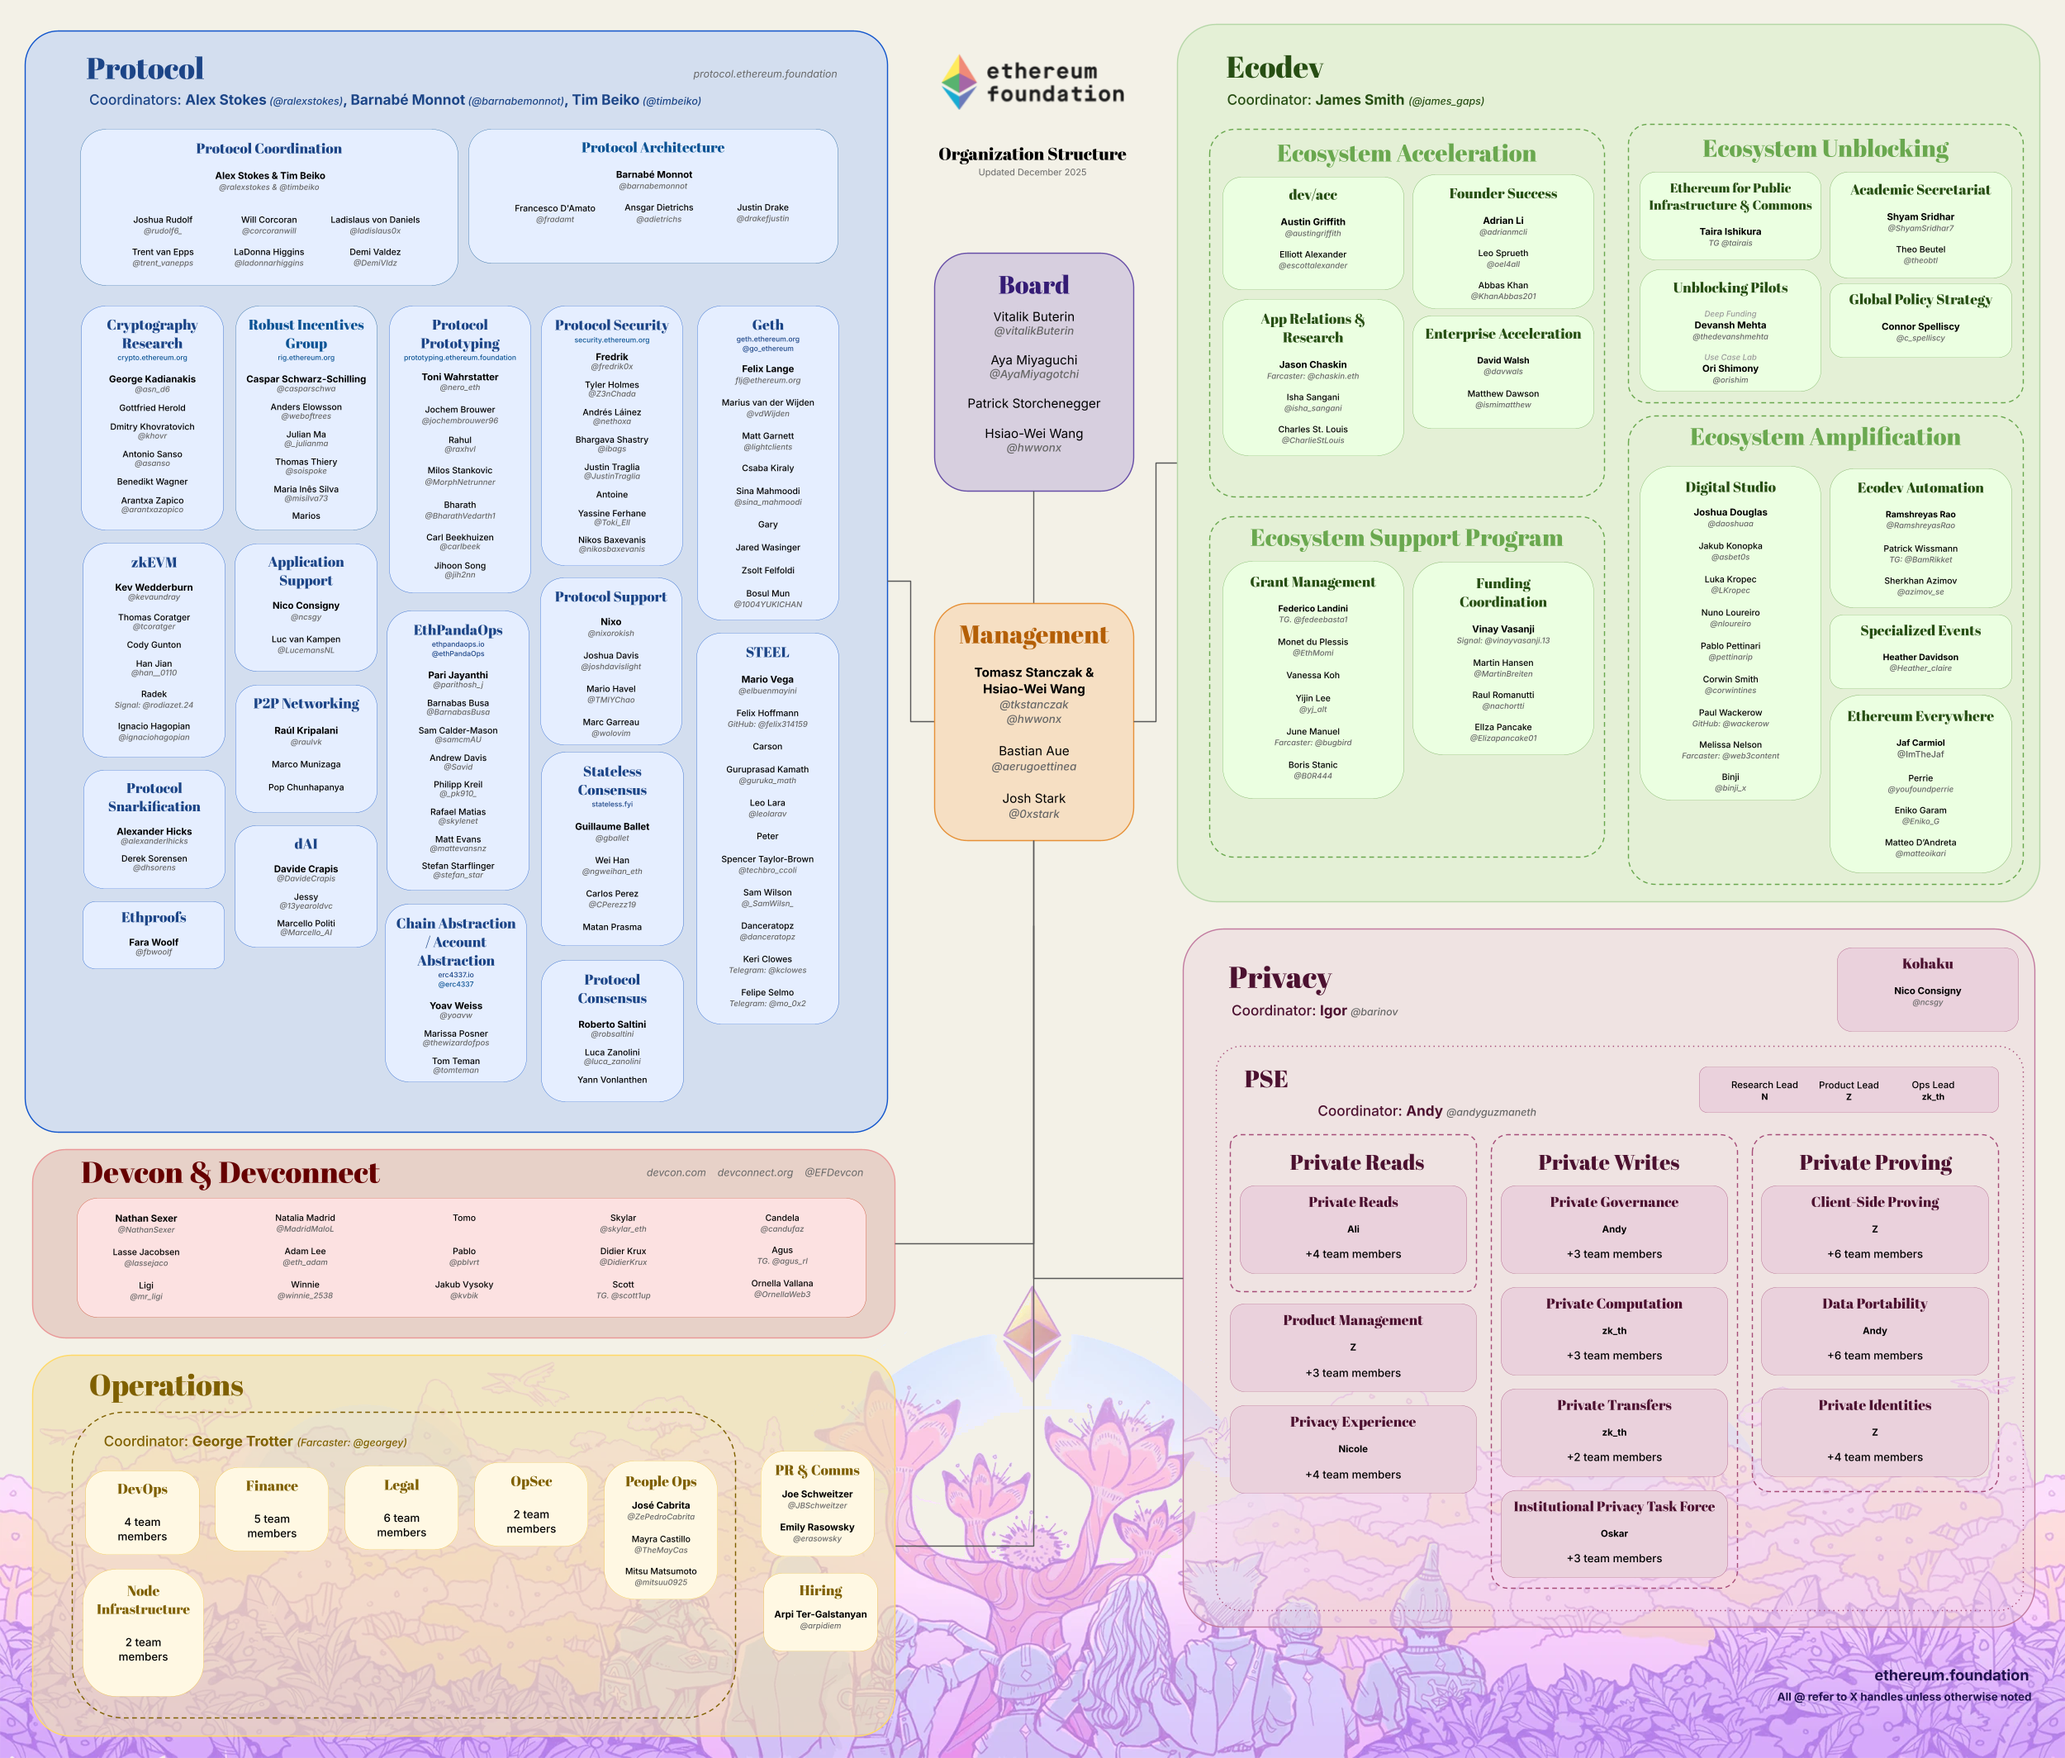
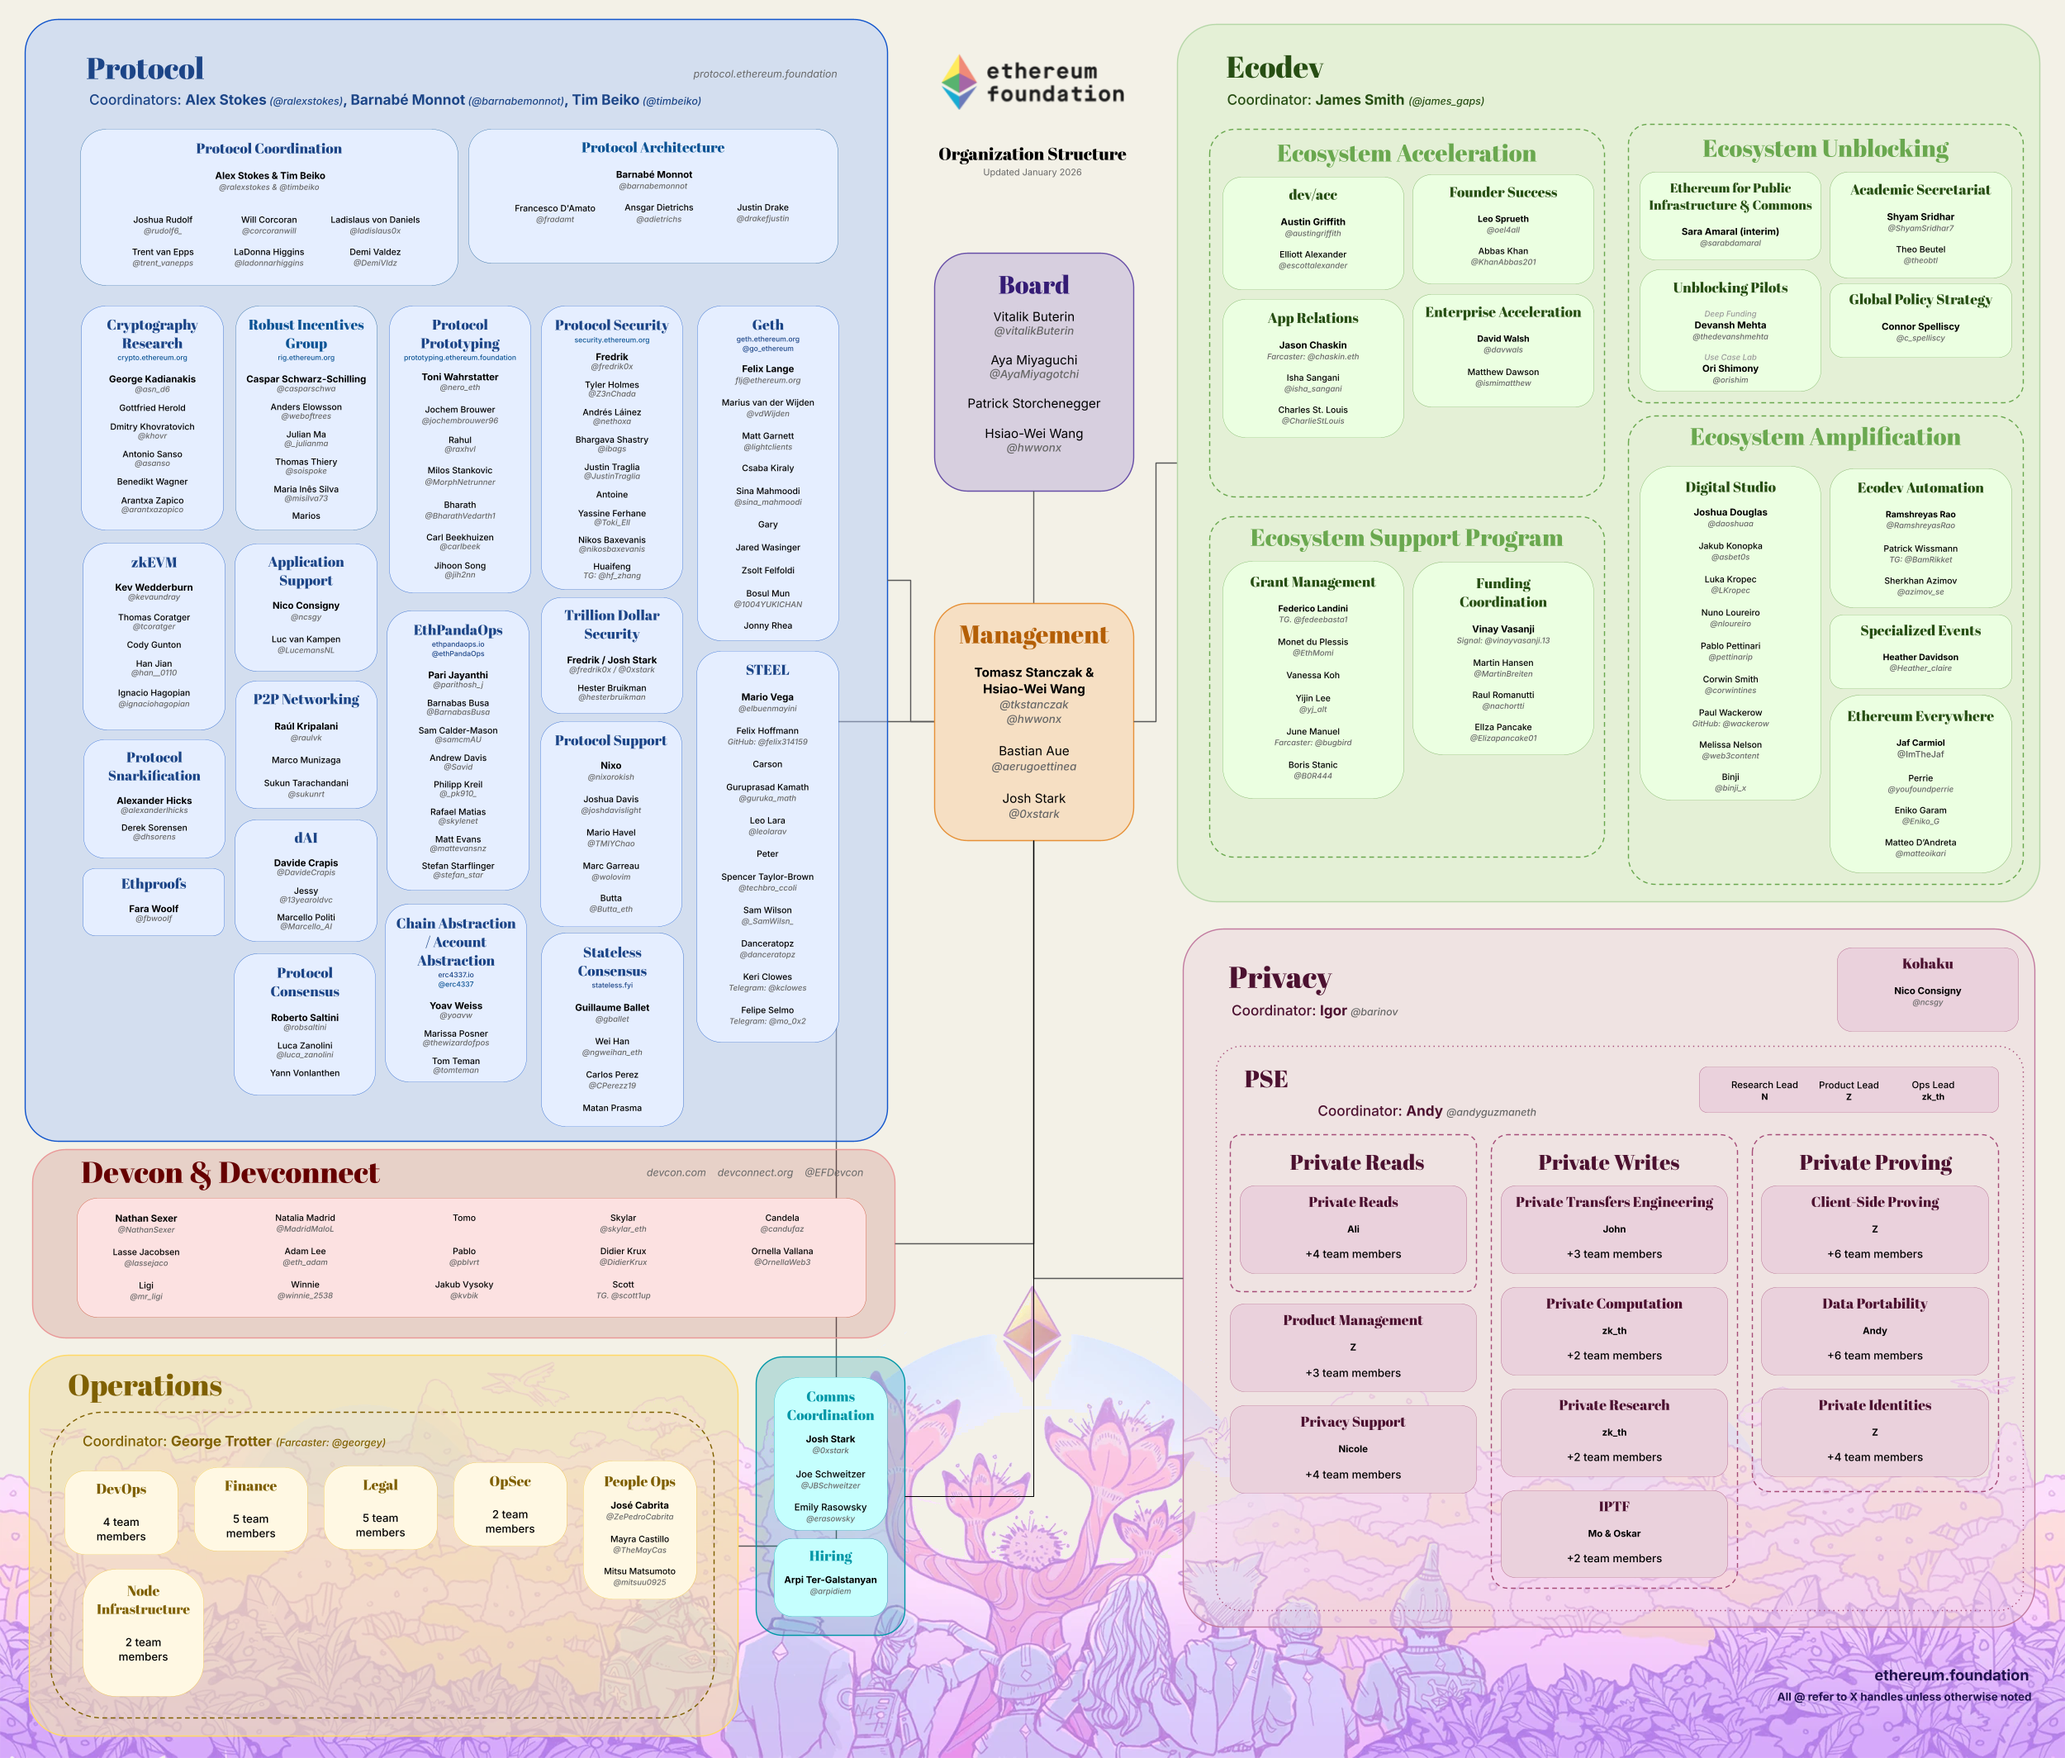
Update org chart to January 2026 version
- Replace org chart image with updated January 2026 version
- Adjust image height in people page (1785 → 2128) to match new dimensions

diff --git a/src/app/people/page.tsx b/src/app/people/page.tsx
@@ -20,7 +20,7 @@ const EthereumFoundation = (props: any) => {
           <Image
             src="/assets/ef-org-chart.png"
             width={2500}
-            height={1785}
+            height={2128}
             alt="Organizational Chart of the Ethereum Foundation"
             layout="responsive"
             priority
